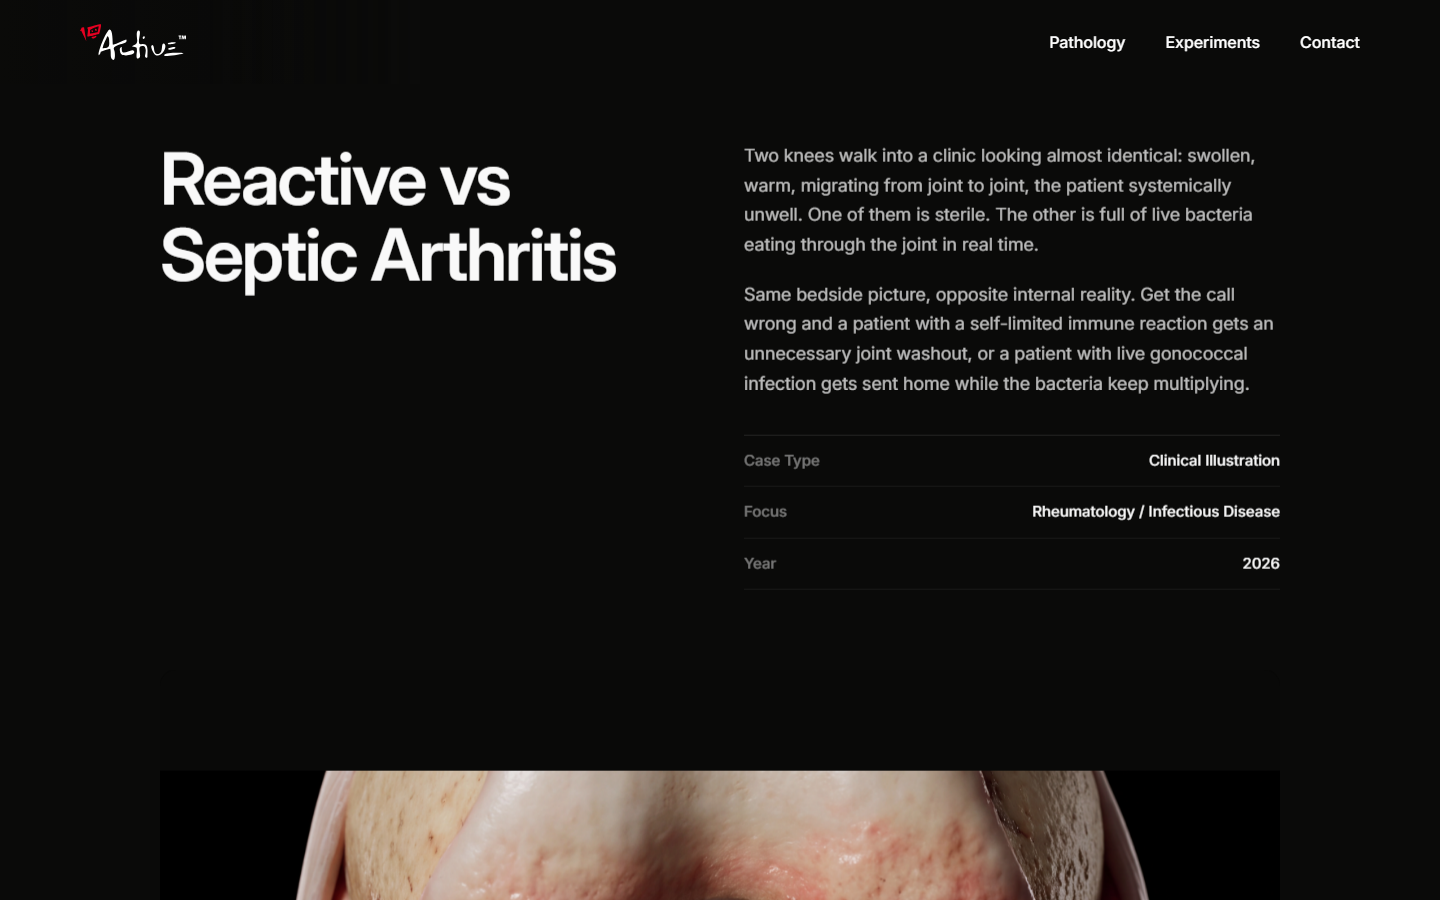
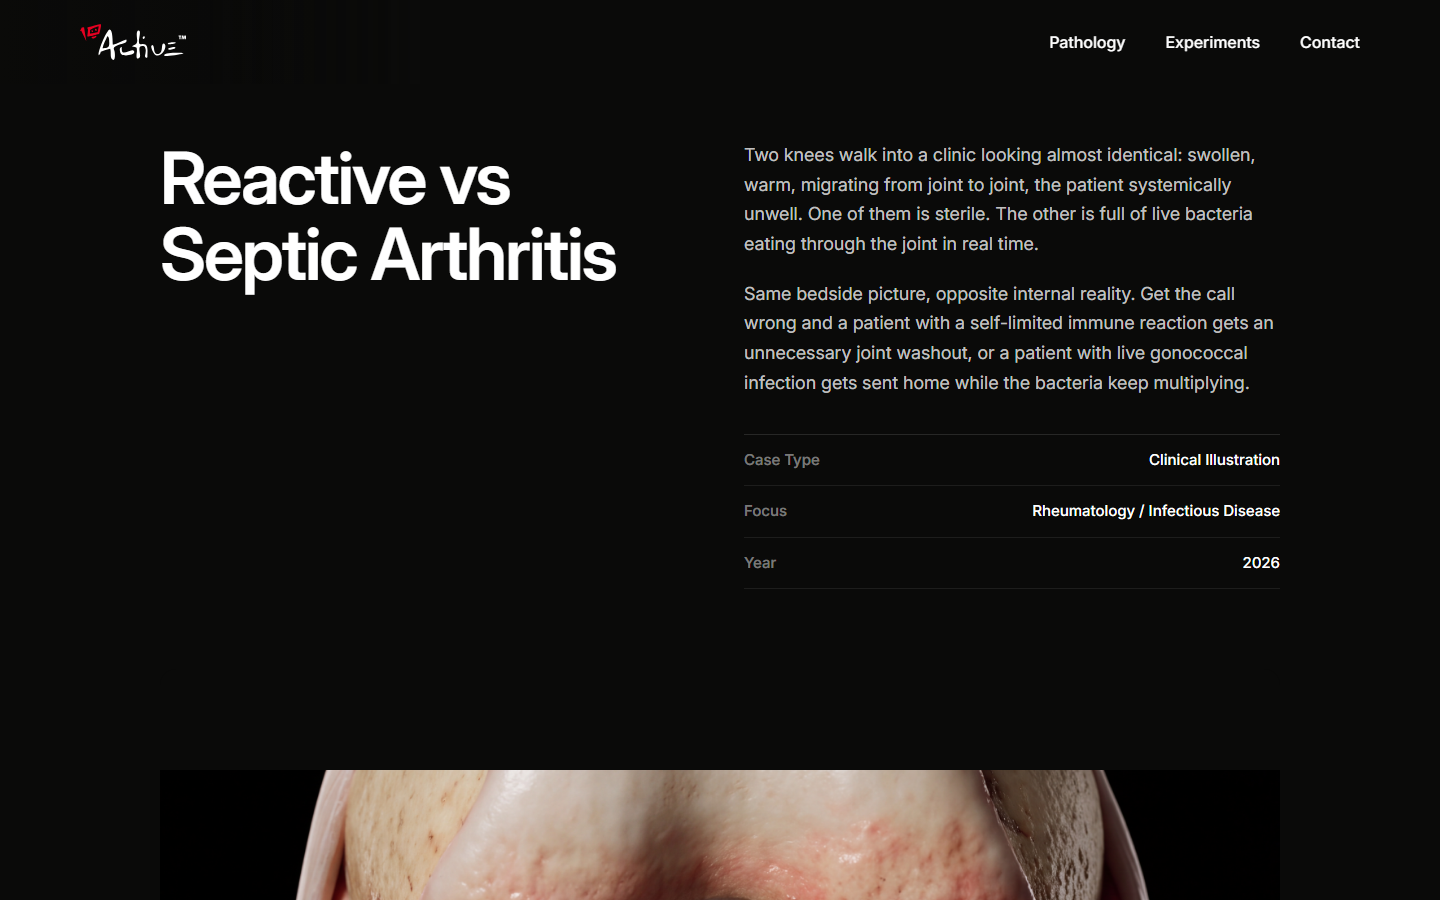
Replace native video controls with minimal custom play button
Native <video controls> was showing the browser's dark gradient bar
plus playback speed / PiP / volume options Steve doesn't want. Swapped
for a bare video (no controls, muted, no audio right now) with a single
centered Tabler-style play button that toggles play/pause on click.

diff --git a/case-study-reactive-vs-septic-arthritis.html b/case-study-reactive-vs-septic-arthritis.html
@@ -51,6 +51,11 @@
 .full-image { padding: 0 clamp(32px, 7vw, 80px); max-width: 1280px; margin: 0 auto var(--space-3xl); width: 100%; }
 section.full-image .step-figure img { height: 92vh; width: 100%; object-fit: contain; background: #0a0a09; }
 section.full-image .step-figure video { height: 92vh; width: 100%; object-fit: contain; background: #0a0a09; border-radius: 16px; display: block; }
+.video-figure { position: relative; }
+.video-play-btn { position: absolute; top: 50%; left: 50%; transform: translate(-50%, -50%); width: 72px; height: 72px; border-radius: 50%; background: rgba(0,0,0,0.55); border: 1px solid rgba(255,255,255,0.25); display: flex; align-items: center; justify-content: center; cursor: pointer; padding: 0; transition: background 0.2s, opacity 0.2s, transform 0.2s; }
+.video-play-btn:hover { background: rgba(0,0,0,0.75); transform: translate(-50%, -50%) scale(1.05); }
+.video-play-btn svg { width: 28px; height: 28px; color: #fff; margin-left: 4px; }
+.video-play-btn.hidden { opacity: 0; pointer-events: none; }
 .step-lookalikes { padding-top: var(--space-md); border-top: 1px solid rgba(255,255,255,0.08); }
 .step-lookalikes-label { font-size: 12px; font-weight: 600; letter-spacing: 0.06em; text-transform: uppercase; opacity: 0.4; margin-bottom: 10px; }
 .step-lookalikes ul { list-style: none; margin: 0; padding: 0; display: flex; flex-direction: column; gap: 6px; }
@@ -266,10 +271,13 @@ section.full-image .step-figure video { height: 92vh; width: 100%; object-fit: c
 </section>
 
 <section class="full-image fade-in">
-  <div class="step-figure">
-    <video controls playsinline preload="none" poster="images/case-studies/reactive-septic-knee-01.png">
+  <div class="step-figure video-figure">
+    <video id="raEndingVideo" playsinline preload="none" muted poster="images/case-studies/reactive-septic-knee-01.png">
       <source src="videos/reactive-septic-knee-ending.mp4" type="video/mp4">
     </video>
+    <button class="video-play-btn" id="raEndingPlayBtn" aria-label="Play video">
+      <svg viewBox="0 0 24 24" fill="currentColor"><path d="M6 4v16a1 1 0 0 0 1.524 .852l13 -8a1 1 0 0 0 0 -1.704l-13 -8a1 1 0 0 0 -1.524 .852z" /></svg>
+    </button>
   </div>
 </section>
 
@@ -320,6 +328,19 @@ section.full-image .step-figure video { height: 92vh; width: 100%; object-fit: c
 </script>
 <script src="lightbox.js"></script>
 <script src="compare-slider.js"></script>
+<script>
+(function() {
+  var video = document.getElementById('raEndingVideo');
+  var btn = document.getElementById('raEndingPlayBtn');
+  if (!video || !btn) return;
+  function toggle() { if (video.paused) { video.play(); } else { video.pause(); } }
+  btn.addEventListener('click', function(e) { e.stopPropagation(); toggle(); });
+  video.addEventListener('click', toggle);
+  video.addEventListener('play', function() { btn.classList.add('hidden'); });
+  video.addEventListener('pause', function() { btn.classList.remove('hidden'); });
+  video.addEventListener('ended', function() { btn.classList.remove('hidden'); });
+})();
+</script>
 <script>if (/[\?&]edit\b/.test(location.search)) { var s=document.createElement('script'); s.src='admin.js'; document.body.appendChild(s); }</script>
 </body>
 </html>
